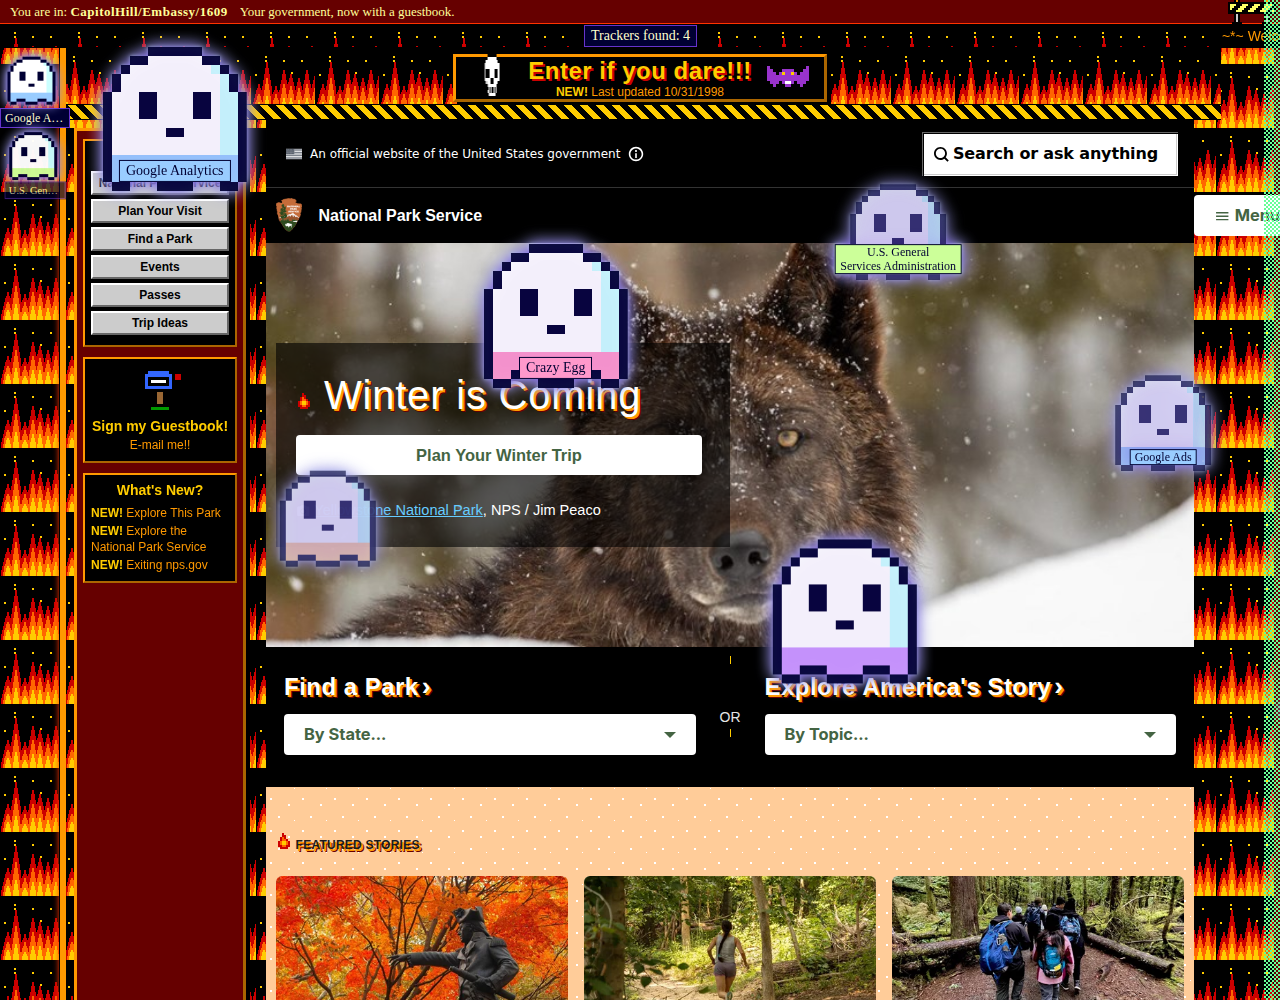
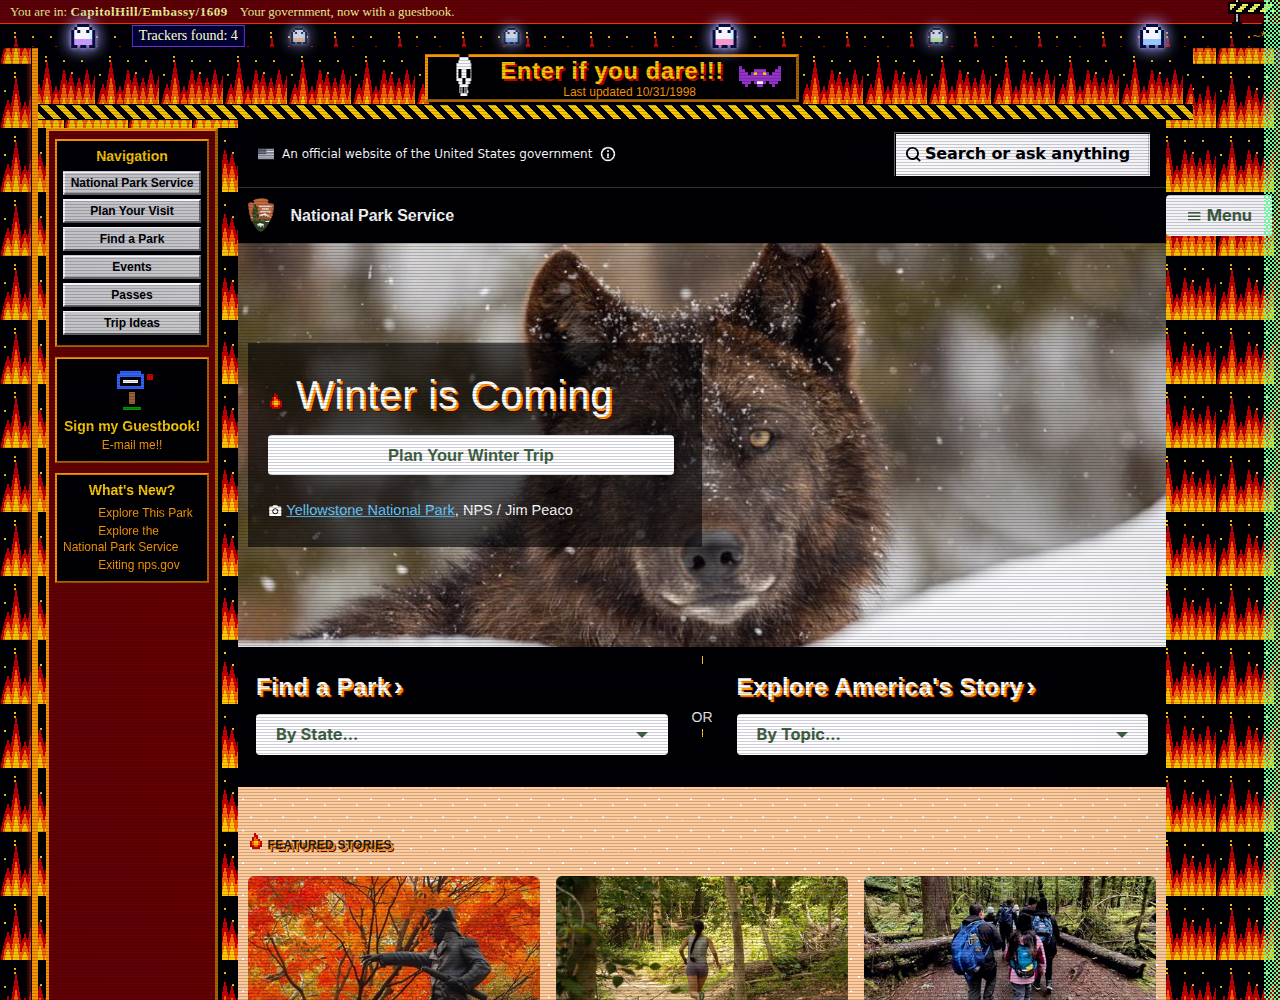
refilm real-site stills, parade in the band on nps

diff --git a/README.md b/README.md
@@ -8,7 +8,7 @@ A pre-period prototype exists outside the entry and was rebuilt from lessons, no
 
 A Chrome extension (Manifest V3) that turns the page you are on into a 1998 GeoCities crypt. Click **Haunt** and the page itself turns 1998, and every site gets its own look: a tiled background (flames, bricks, clouds, green code rain, slime, starfield), a welcome banner with pixel sprites, old web fonts, WordArt or rainbow headings, a tinted column in a bevelled frame, a marquee and a cursor trail. Click **Un-haunt** and the page is put back as it was. It is an entry in Kiroween 2026, Costume Contest.
 
-The GIF at the top is a real page, not a fixture: the shipping build on the live National Park Service home page (`https://www.nps.gov/index.htm`) over the real network, made on 2026-11-27 by `bun run docs:realsite`. Playwright cannot click the toolbar icon, so the run gives the extension a host permission for that one site in place of the click, then presses **Haunt page** in the popup (the run answers no to the site prompt, so it haunts that one page). The parade carries the trackers the page really loaded, and the caption reads `Trackers found: 4` while their four name tags are still on screen ([still](docs/real-site-caption-nps.png)). The same run on the CDC home page (`https://www.cdc.gov/`) shows `Trackers found: 3` ([still](docs/real-site-caption-cdc.png)). Both are US government pages, public-domain works, and the extension has no link to either agency. The record of the run is [`docs/real-site.json`](docs/real-site.json). Live pages change, so this run is a docs tool and not one of the checks. Every other shot and GIF in this README, and the opening of the demo video, uses the fixture pages in `fixtures/`, small made-up sites served locally (with real tracker domains pointed at the local server), not real sites.
+The GIF at the top is a real page, not a fixture: the shipping build on the live National Park Service home page (`https://www.nps.gov/index.htm`) over the real network, made on 2026-11-27 by `bun run docs:realsite`. Playwright cannot click the toolbar icon, so the run gives the extension a host permission for that one site in place of the click, then presses **Haunt page** in the popup (the run answers no to the site prompt, so it haunts that one page). The parade carries the trackers the page really loaded, and the caption reads `Trackers found: 4` while their four ghosts are still on screen, small in the marquee band beside it ([still](docs/real-site-caption-nps.png)). The same run on the CDC home page (`https://www.cdc.gov/`) shows `Trackers found: 3` ([still](docs/real-site-caption-cdc.png)). Both are US government pages, public-domain works, and the extension has no link to either agency. The record of the run is [`docs/real-site.json`](docs/real-site.json). Live pages change, so this run is a docs tool and not one of the checks. Every other shot and GIF in this README, and the opening of the demo video, uses the fixture pages in `fixtures/`, small made-up sites served locally (with real tracker domains pointed at the local server), not real sites.
 
 ![A haunted page: the article in Times New Roman on a parchment column inside a ridged guestbook frame, a tracker ghost and two vampires in the starfield, the HUD in the footer](docs/screenshots/haunted.png)
 
